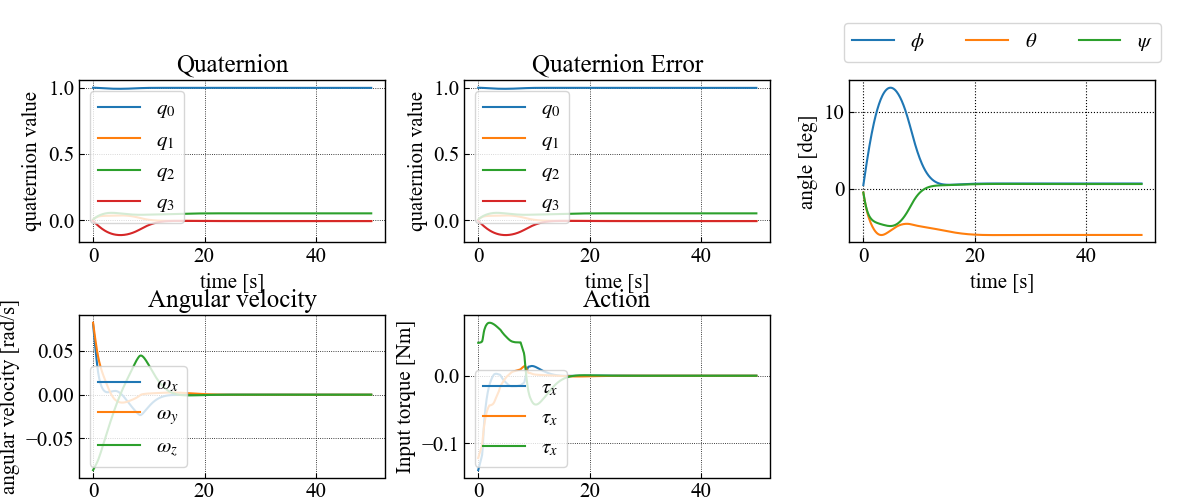
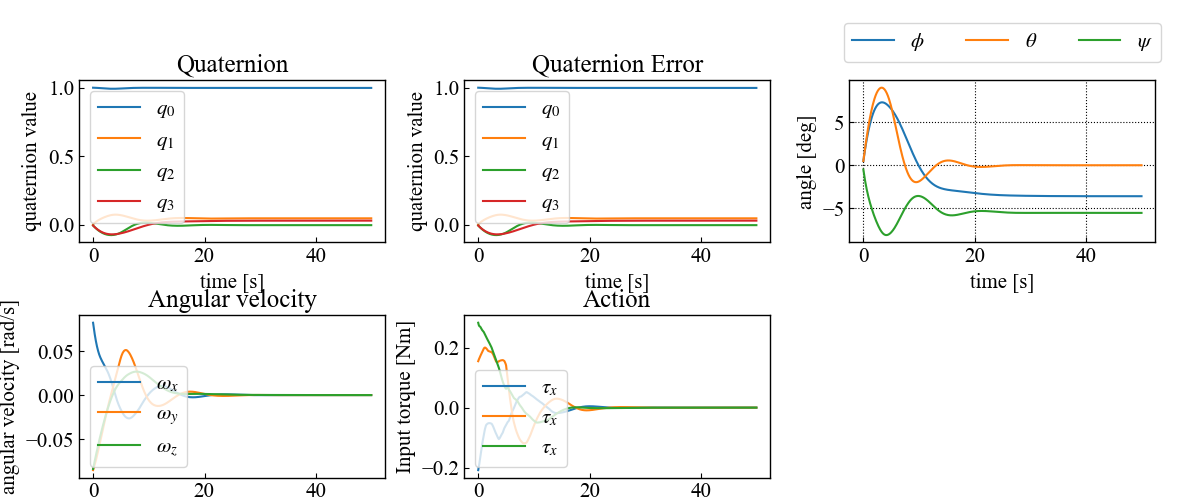
CHANGE: change reward to only quat

diff --git a/environment.py b/environment.py
@@ -166,9 +166,9 @@ class SatelliteContinuousEnv(gym.Env):
         self.d_errorQuate = self.quaternion_differential(self.startOmega, self.errorQuate)
 
         #---thresholds for episode-----
-        self.q_weight = 1*2
-        self.w_weight = 1
-        self.action_weight = 0.25
+        self.q_weight = 1*10
+        self.w_weight = 0#1
+        self.action_weight = 0#0.25
 
         self.nsteps = 0  # timestep
         self.max_steps = self.simutime/self.dt
